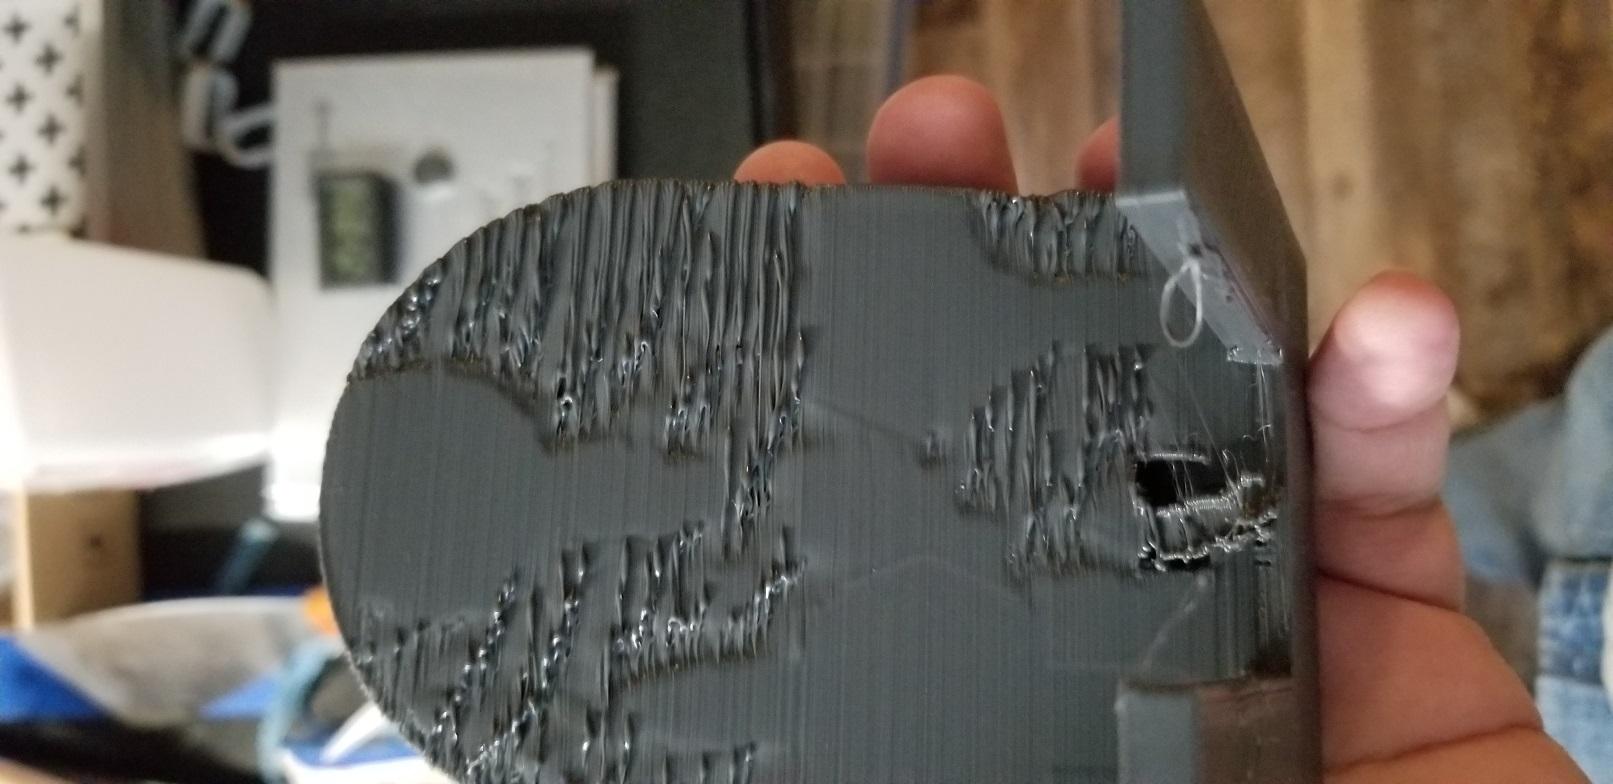
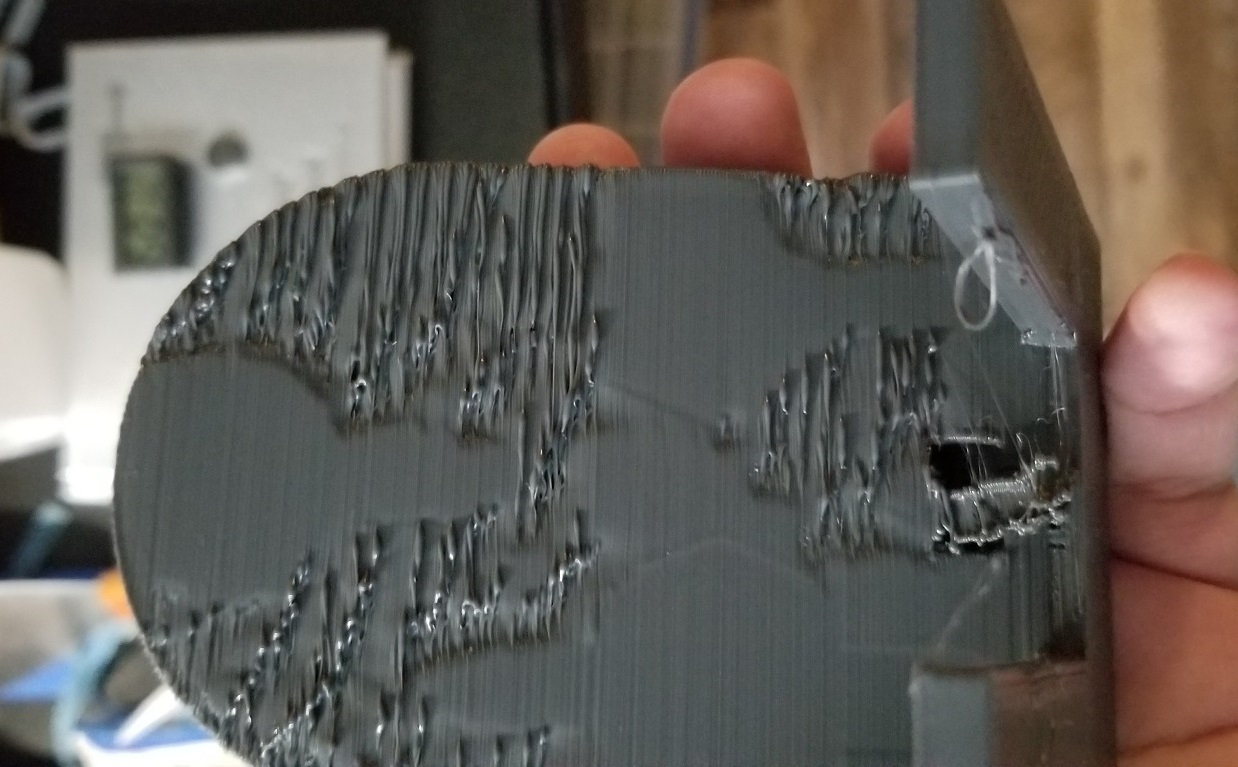
Added notes for 4/24/2020 to include pictures

diff --git a/2020/04/2020_04_24.md b/2020/04/2020_04_24.md
@@ -85,8 +85,15 @@ Yes next day, but started on this yesterday and took a few tries. Turns out the 
 
 Part printed: https://www.thingiverse.com/thing:4311010
 
-Quality came out ok after several failures to either stick to the plate or string.No warping detected but the part is super flexible for what I normally print.
+Quality came out ok after several failures to either stick to the plate or string. No warping detected but the part is super flexible for what I normally print.
 
+![computer part printed side A](images/2020-04-25_00.52.08.jpg)
+
+![computer part printed side B](images/2020-04-25_00.52.15.jpg)
+
+![computer part flexed by hand](images/2020-04-25_00.55.23.jpg)
+
+```
 File: AC_bahiaTarjetaPC.gcode 
 Uploaded: 2020-04-25 00:31:41
 User: Dark
@@ -97,4 +104,4 @@ Print Time: 00:16:59
 Print Time Left: -
 Printed: 146.0KB / 146.0KB
 Cost: $0.03
-
+```
